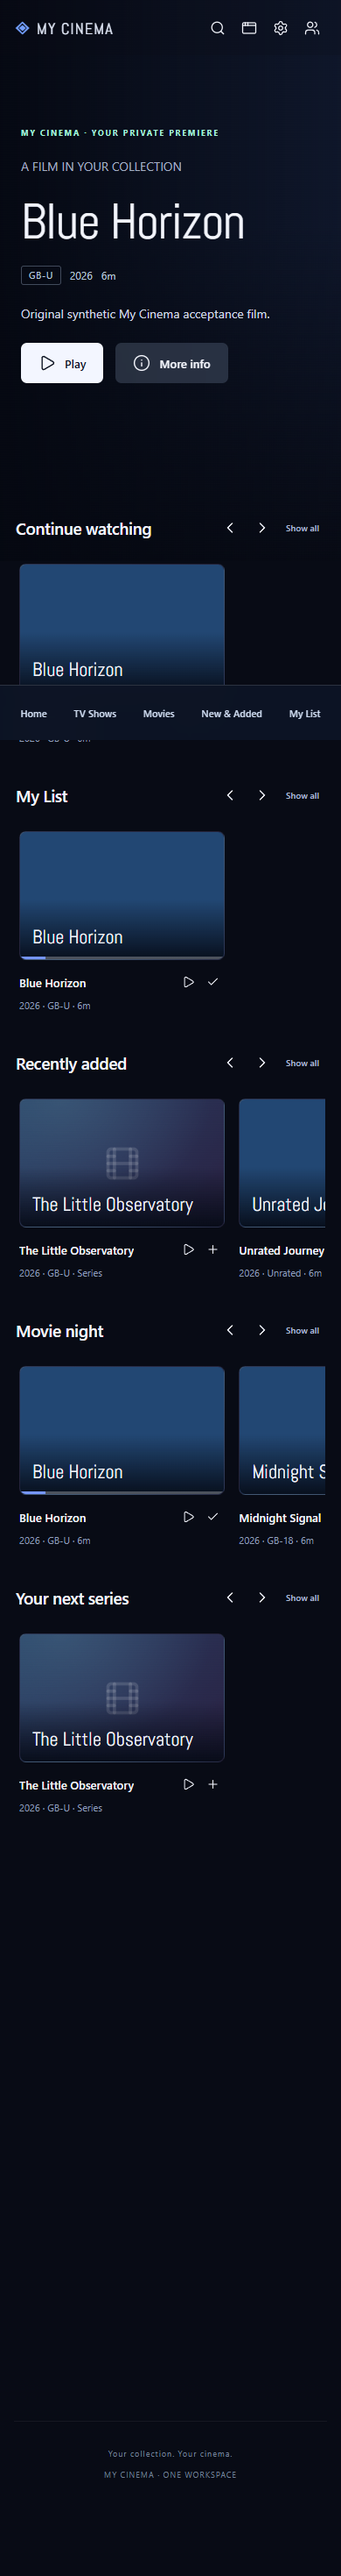
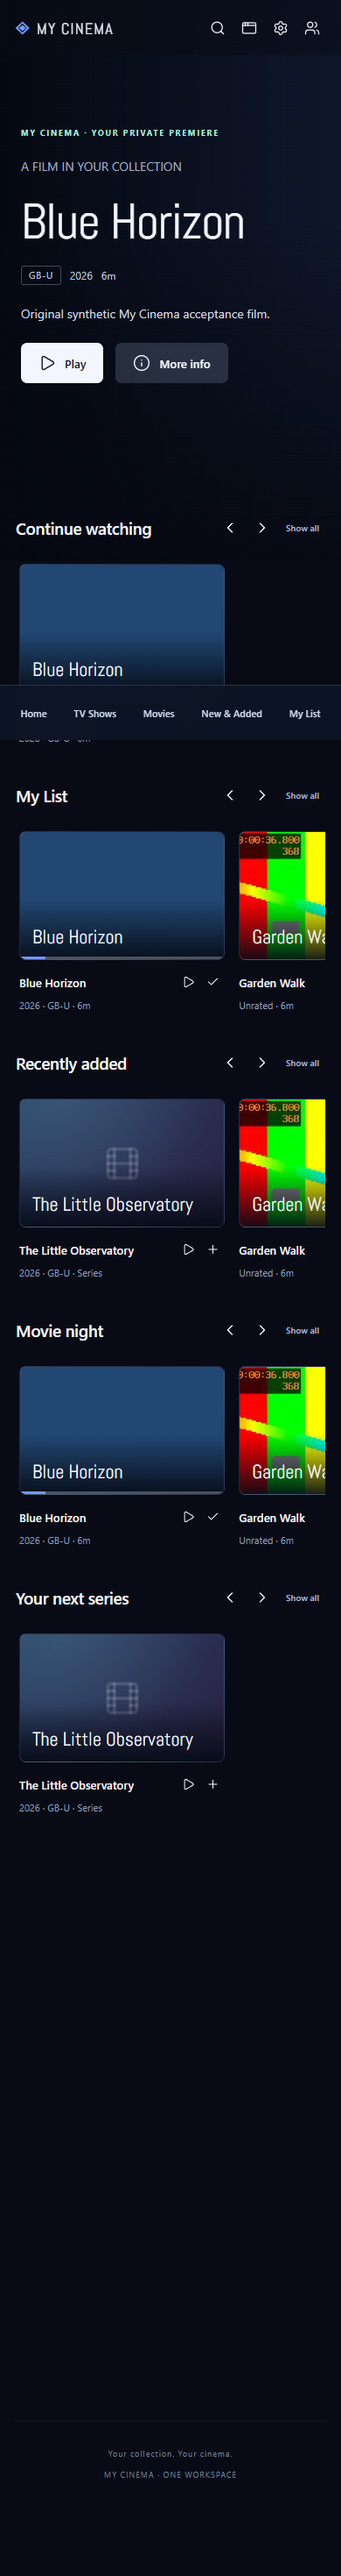
Use stable official media runtime, real readiness and complete video preferences

Changed region(s): [[0.6769, 0.3097, 0.9538, 0.4956], [0.6769, 0.5265, 0.9538, 0.6195]]

diff --git a/web/src/main.tsx b/web/src/main.tsx
@@ -12,6 +12,7 @@ import Settings from './generated/Settings';
 import Watch from './generated/Watch';
 import Login from './generated/Login';
 import './style.css';
+import {preferredTrack} from './media-preferences';
 
 const h=React.createElement;
 type Obj=Record<string,any>;
@@ -57,15 +58,16 @@ function App(){
  async function loadProfiles(){const out=await api('/api/profiles');setProfiles(out.profiles);const p=out.profiles.find((v:Obj)=>v.id===out.active);setProfile(p||null);return out}
  async function loadHome(){const gen=request.current;const out=await api('/api/home');if(gen!==request.current)return;setRows(out.rows.map((r:Obj)=>({...r,items:r.items.map(enrich)})));setHero(out.hero?enrich(out.hero):null);setProfile(out.profile)}
  async function loadCatalog(type:string,start=0){const gen=request.current;const endpoint=type==='list'?'/api/my-list':`/api/catalog?type=${type==='movies'?'movie':type==='series'?'series':type==='new'?'new':''}&start=${start}`;const out=await api(endpoint);if(gen!==request.current)return;setItems(old=>start?[...old,...out.items.map(enrich)]:out.items.map(enrich));setMore(!!out.hasMore);setNextPage(out.next||0)}
- async function openDetails(id:string){const gen=request.current;const out=enrich(await api('/api/items/'+id));if(gen!==request.current)return;setDetail(out);setSimilar([]);api(`/api/items/${id}/similar`).then(v=>{if(gen===request.current)setSimilar(v.items.map(enrich))}).catch(()=>{});setEpisodes([]);setSeasons([]);const src=out.sources?.[0];setFields(f=>({...f,version:src?.id||'',audio:'-1',subtitle:'-1'}));if(out.type==='Series'){const ss=await api(`/api/series/${id}/seasons`);if(gen!==request.current)return;setSeasons(ss.items);if(ss.items.length){setFields(f=>({...f,season:ss.items[0].id}));const es=await api(`/api/series/${id}/episodes?season=${ss.items[0].id}`);if(gen===request.current)setEpisodes(es.items.map(enrich))}}}
+ async function openDetails(id:string){const gen=request.current;const out=enrich(await api('/api/items/'+id));if(gen!==request.current)return;setDetail(out);setSimilar([]);api(`/api/items/${id}/similar`).then(v=>{if(gen===request.current)setSimilar(v.items.map(enrich))}).catch(()=>{});setEpisodes([]);setSeasons([]);const src=out.sources?.[0];setFields(f=>({...f,version:src?.id||'',audio:String(preferredTrack(src,'Audio',profile?.preferences?.audio)),subtitle:String(preferredTrack(src,'Subtitle',profile?.preferences?.subtitles))}));if(out.type==='Series'){const ss=await api(`/api/series/${id}/seasons`);if(gen!==request.current)return;setSeasons(ss.items);if(ss.items.length){setFields(f=>({...f,season:ss.items[0].id}));const es=await api(`/api/series/${id}/episodes?season=${ss.items[0].id}`);if(gen===request.current)setEpisodes(es.items.map(enrich))}}}
  async function begin(id:string,restart=false,override:Obj={}){const gen=request.current;
   let m=enrich(await api('/api/items/'+id));let following:Obj|null=null;
   if(m.type==='Series'){const es=await api(`/api/series/${m.id}/episodes`);const sorted=es.items.filter((v:Obj)=>v.season!==0);const ep=sorted.find((v:Obj)=>v.progress>0&&!v.played)||sorted.find((v:Obj)=>!v.played)||sorted[0]||es.items[0];if(!ep)throw new Error('This series has no playable episodes yet.');m=enrich(await api('/api/items/'+ep.id))}
   if(m.seriesId){const es=await api(`/api/series/${m.seriesId}/episodes`);const index=es.items.findIndex((v:Obj)=>v.id===m.id);following=es.items.slice(index+1).find((v:Obj)=>v.season>0)||null}
   const old=playRef.current;if(old){setPlay(null);await api(`/api/playback/${old.id}/stop`,'POST',{position}).catch(()=>{})}
   const source=(detail?.id===id?fields.version:'')||'';
-  const out=await api('/api/playback/sessions','POST',{id:m.id,source,audio:Number(detail?.id===id?fields.audio:-1),subtitle:Number(detail?.id===id?fields.subtitle:-1),bitrate:Number(fields.quality||20000000),restart,...override});
-  if(gen!==request.current)return;setPlay(out);setPosition(out.start);setNext(following?enrich(following):null);setCountdown(null);setPlayerError('');setFields(f=>({...f,playAudio:String(override.audio??(detail?.id===id?fields.audio:-1)),playSubtitle:String(override.subtitle??(detail?.id===id?fields.subtitle:-1))}));setDetail(null);setView('watch');location.hash='watch'
+  const selectedSource=m.sources?.find((v:Obj)=>v.id===source)||m.sources?.[0];const audio=Number(detail?.id===id?fields.audio:preferredTrack(selectedSource,'Audio',profile?.preferences?.audio)),subtitle=Number(detail?.id===id?fields.subtitle:preferredTrack(selectedSource,'Subtitle',profile?.preferences?.subtitles));
+  const out=await api('/api/playback/sessions','POST',{id:m.id,source,audio,subtitle,bitrate:Number(fields.quality||20000000),restart,...override});
+  if(gen!==request.current)return;setPlay(out);setPosition(out.start);setNext(following?enrich(following):null);setCountdown(null);setPlayerError('');setFields(f=>({...f,playAudio:String(override.audio??audio),playSubtitle:String(override.subtitle??subtitle)}));setDetail(null);setView('watch');location.hash='watch'
  }
  async function loadSettings(){let out:Obj={};if(sessionRef.current?.user.role==='owner'&&profile?.kind==='adult')out=await api('/api/admin/settings');setSettings(out);const prefs=profile?.preferences||{};const first=profiles[0];setFields(f=>({...f,preferredAudio:prefs.audio||'',preferredSubtitle:prefs.subtitles||'off',autoplay:!!prefs.autoplay,recentSearches:!!prefs.recentSearches,tv:!!prefs.tv,editProfile:first?.id||'',editName:first?.name||'',editRating:String(first?.rating??18)}))}
  useEffect(()=>{(async()=>{try{const b=await api('/api/bootstrap');base.current=b.base||'';setBoot(b);try{const s=await api('/api/me');setSession(s);sessionRef.current=s;const ps=await loadProfiles();setView(ps.active?'browse':'profiles')}catch{setView('login')}}catch(e){setError((e as Error).message)}finally{setLoading(false)}})()},[]);

diff --git a/web/src/media-preferences.ts b/web/src/media-preferences.ts
@@ -1,0 +1,8 @@
+type Source = {tracks?:{type:string;language?:string;index:number}[]};
+const aliases:Record<string,string>={eng:'en',fra:'fr',fre:'fr',deu:'de',ger:'de',spa:'es',ita:'it',por:'pt',jpn:'ja',kor:'ko',zho:'zh',chi:'zh',ara:'ar',hin:'hi',ben:'bn',rus:'ru',nld:'nl',dut:'nl'};
+function languageCode(raw:string){const code=raw.trim().toLowerCase().split(/[-_]/)[0];return aliases[code]||code}
+export function preferredTrack(source:Source|undefined,type:string,language:string|undefined){
+ if(!language||language.toLowerCase()==='off')return -1;
+ const code=languageCode(language);
+ return source?.tracks?.find(t=>t.type===type&&languageCode(t.language||'')===code)?.index??-1;
+}

diff --git a/internal/app/catalog.go b/internal/app/catalog.go
@@ -123,7 +123,7 @@ func (a *App) catalog(w http.ResponseWriter, r *http.Request) {
 	if !ok {
 		return
 	}
-	q := url.Values{"Recursive": {"true"}, "IncludeItemTypes": {"Movie,Series"}, "SortBy": {"SortName"}, "SortOrder": {"Ascending"}}
+	q := url.Values{"Recursive": {"true"}, "IncludeItemTypes": {"Movie,Series,Video"}, "SortBy": {"SortName"}, "SortOrder": {"Ascending"}}
 	switch r.URL.Query().Get("type") {
 	case "movie":
 		q.Set("IncludeItemTypes", "Movie")
@@ -176,9 +176,9 @@ func (a *App) home(w http.ResponseWriter, r *http.Request) {
 		id, name string
 		q        url.Values
 	}{
-		{"list", "My List", url.Values{"Recursive": {"true"}, "IncludeItemTypes": {"Movie,Series"}, "Filters": {"IsFavorite"}, "SortBy": {"SortName"}}},
-		{"recent", "Recently added", url.Values{"Recursive": {"true"}, "IncludeItemTypes": {"Movie,Series"}, "SortBy": {"DateCreated"}, "SortOrder": {"Descending"}}},
-		{"movies", "Movie night", url.Values{"Recursive": {"true"}, "IncludeItemTypes": {"Movie"}, "SortBy": {"SortName"}}},
+		{"list", "My List", url.Values{"Recursive": {"true"}, "IncludeItemTypes": {"Movie,Series,Video"}, "Filters": {"IsFavorite"}, "SortBy": {"SortName"}}},
+		{"recent", "Recently added", url.Values{"Recursive": {"true"}, "IncludeItemTypes": {"Movie,Series,Video"}, "SortBy": {"DateCreated"}, "SortOrder": {"Descending"}}},
+		{"movies", "Movie night", url.Values{"Recursive": {"true"}, "IncludeItemTypes": {"Movie,Video"}, "SortBy": {"SortName"}}},
 		{"series", "Your next series", url.Values{"Recursive": {"true"}, "IncludeItemTypes": {"Series"}, "SortBy": {"SortName"}}},
 	}
 	for _, q := range queries {
@@ -192,7 +192,7 @@ func (a *App) home(w http.ResponseWriter, r *http.Request) {
 	}
 	if len(resume.Items) > 0 && visible(p, resume.Items[0]) && len(resume.Items[0].Genres) > 0 {
 		seed := resume.Items[0]
-		out, e := a.engine.Items(r.Context(), c, url.Values{"Recursive": {"true"}, "IncludeItemTypes": {"Movie,Series"}, "Genres": {seed.Genres[0]}, "Limit": {"20"}})
+		out, e := a.engine.Items(r.Context(), c, url.Values{"Recursive": {"true"}, "IncludeItemTypes": {"Movie,Series,Video"}, "Genres": {seed.Genres[0]}, "Limit": {"20"}})
 		if e == nil {
 			filtered := out.Items[:0]
 			for _, i := range out.Items {
@@ -232,7 +232,7 @@ func (a *App) search(w http.ResponseWriter, r *http.Request) {
 		apphost.JSON(w, 200, map[string]any{"items": []Media{}})
 		return
 	}
-	out, e := a.engine.Items(r.Context(), c, url.Values{"Recursive": {"true"}, "IncludeItemTypes": {"Movie,Series,Episode"}, "SearchTerm": {q}, "Limit": {"80"}})
+	out, e := a.engine.Items(r.Context(), c, url.Values{"Recursive": {"true"}, "IncludeItemTypes": {"Movie,Series,Episode,Video"}, "SearchTerm": {q}, "Limit": {"80"}})
 	if e != nil {
 		a.fail(w, e)
 		return
@@ -244,7 +244,7 @@ func (a *App) myList(w http.ResponseWriter, r *http.Request) {
 	if !ok {
 		return
 	}
-	out, e := a.engine.Items(r.Context(), c, url.Values{"Recursive": {"true"}, "IncludeItemTypes": {"Movie,Series"}, "Filters": {"IsFavorite"}, "SortBy": {"SortName"}, "Limit": {"500"}})
+	out, e := a.engine.Items(r.Context(), c, url.Values{"Recursive": {"true"}, "IncludeItemTypes": {"Movie,Series,Video"}, "Filters": {"IsFavorite"}, "SortBy": {"SortName"}, "Limit": {"500"}})
 	if e != nil {
 		a.fail(w, e)
 		return

diff --git a/scripts/assemble-runtime.py b/scripts/assemble-runtime.py
@@ -1,0 +1,36 @@
+"""Assemble unmodified official Jellyfin and compatible FFmpeg portable binaries.
+
+For the exact published ZIP use the runtime asset on the My Cinema release.
+This script records vendor assembly; deflate bytes can vary by zlib version.
+"""
+import argparse, hashlib, json, zipfile
+from pathlib import Path
+
[2 lines of base64/hex data omitted]
+def digest(path):
+ h=hashlib.sha256()
+ with Path(path).open('rb') as f:
+  for block in iter(lambda:f.read(1048576),b''):h.update(block)
+ return h.hexdigest()
+def assemble(server,encoder,output):
+ assert digest(server)==SERVER_SHA,'Jellyfin vendor checksum mismatch'
+ assert digest(encoder)==FFMPEG_SHA,'FFmpeg vendor checksum mismatch'
+ output=Path(output)
+ if output.exists():raise ValueError('Use a new output file')
+ with zipfile.ZipFile(server) as base,zipfile.ZipFile(encoder) as ff,zipfile.ZipFile(output,'w',zipfile.ZIP_DEFLATED,compresslevel=5) as result:
+  replacements={}
+  for name in ['ffmpeg.exe','ffprobe.exe']:
+   members=[s for s in ff.namelist() if Path(s).name==name]
+   assert len(members)==1
+   replacements['jellyfin/'+name]=ff.read(members[0])
+  manifest={'schema':1,'jellyfin':'12.3','serverArchiveSHA256':SERVER_SHA,'ffmpeg':'8.1.2-1','encoderArchiveSHA256':FFMPEG_SHA,'vendorBinariesModified':False,'replacements':{k:hashlib.sha256(v).hexdigest() for k,v in replacements.items()}}
+  for old in base.infolist():
+   assert old.filename.startswith('jellyfin/') and '..' not in old.filename.split('/')
+   entry=zipfile.ZipInfo(old.filename,(2026,10,24,0,0,0));entry.compress_type=zipfile.ZIP_DEFLATED;entry.external_attr=old.external_attr
+   result.writestr(entry,replacements.get(old.filename,base.read(old.filename)))
+  entry=zipfile.ZipInfo('jellyfin/MYCINEMA-ASSEMBLY.json',(2026,10,24,0,0,0));entry.compress_type=zipfile.ZIP_DEFLATED
+  result.writestr(entry,json.dumps(manifest,indent=2))
+ print(json.dumps({'runtimeSHA256':digest(output),**manifest},indent=2))
+if __name__=='__main__':
+ parser=argparse.ArgumentParser();parser.add_argument('--server-zip',required=True);parser.add_argument('--ffmpeg-zip',required=True);parser.add_argument('--output',required=True);args=parser.parse_args();assemble(args.server_zip,args.ffmpeg_zip,args.output)

diff --git a/internal/app/engine.go b/internal/app/engine.go
@@ -23,16 +23,9 @@ func (a *App) engineStatus(ready bool, msg string) {
 	a.mu.Unlock()
 }
 
-// Preserve only the existing Windows app-health context. Dropping this marker
-// from a parent that has it causes the pinned native encoder to fail at process
-// initialization on the reference host. Never invent a compatibility layer or
-// forward arbitrary layer options/account/provider environment variables.
+// Media children receive no account, provider or compatibility-layer options.
 func mediaEnvironment() []string {
-	env := []string{"DOTNET_CLI_TELEMETRY_OPTOUT=1", "LANG=C.UTF-8", "LC_ALL=C.UTF-8"}
-	if os.Getenv("__COMPAT_LAYER") == "DetectorsAppHealth" {
-		env = append(env, "__COMPAT_LAYER=DetectorsAppHealth")
-	}
-	return env
+	return []string{"DOTNET_CLI_TELEMETRY_OPTOUT=1", "LANG=C.UTF-8", "LC_ALL=C.UTF-8"}
 }
 
 var errEngineExit = errors.New("private media engine exited")
@@ -104,7 +97,7 @@ func (a *App) engineCycle(ctx context.Context) error {
 		return e
 	}
 	var encoderVersion bytes.Buffer
-	if e = apphost.Service(ctx, filepath.Join(runtime, "ffmpeg.exe"), root, []string{"-version"}, mediaEnvironment(), &encoderVersion); e != nil || !strings.HasPrefix(encoderVersion.String(), "ffmpeg version 8.1.3-Jellyfin") {
+	if e = apphost.Service(ctx, filepath.Join(runtime, "ffmpeg.exe"), root, []string{"-version"}, mediaEnvironment(), &encoderVersion); e != nil || !strings.HasPrefix(encoderVersion.String(), "ffmpeg version 8.1.2-Jellyfin") {
 		a.engineStatus(false, "The bundled video encoder could not start. Check the local diagnostic log and restart My Cinema.")
 		a.H.Log.Error("bundled encoder validation failed", "error", fmt.Sprint(e), "output", encoderVersion.String())
 		<-ctx.Done()

diff --git a/internal/app/runtime.go b/internal/app/runtime.go
@@ -12,7 +12,7 @@ import (
 	"strings"
 )
 
[2 lines of base64/hex data omitted]
 
 // Extract only the pinned vendor archive, into private app-relative state.
 // The publisher appends the exact vendor ZIP and a fixed-size footer to the PE.
@@ -56,7 +56,7 @@ func prepareRuntime(data, archive string) (string, error) {
 	if e != nil || hex.EncodeToString(sum.Sum(nil)) != RuntimeSHA256 {
 		return "", errors.New("the media runtime archive failed its release checksum")
 	}
-	root := filepath.Join(data, "runtime", "jellyfin")
+	root := filepath.Join(data, "runtime", "jellyfin-"+RuntimeSHA256[:12])
 	marker := filepath.Join(root, ".mycinema-runtime")
 	if b, e := os.ReadFile(marker); e == nil && string(b) == RuntimeSHA256 {
 		for _, name := range []string{"jellyfin.exe", "ffmpeg.exe", "ffprobe.exe"} {

diff --git a/internal/app/app.go b/internal/app/app.go
@@ -86,6 +86,16 @@ func New(h *apphost.Host) (*App, error) {
 	for _, r := range routes {
 		h.Mux.HandleFunc(r.path, h.Require(r.fn))
 	}
+	h.Mux.HandleFunc("GET /cinema-health", func(w http.ResponseWriter, r *http.Request) {
+		a.mu.Lock()
+		ready := a.ready
+		a.mu.Unlock()
+		code := http.StatusOK
+		if !ready {
+			code = http.StatusServiceUnavailable
+		}
+		apphost.JSON(w, code, map[string]any{"ready": ready, "version": h.Config.Version})
+	})
 	return a, nil
 }
 func (a *App) saveSecretsLocked() error {

diff --git a/internal/app/security_test.go b/internal/app/security_test.go
@@ -15,7 +15,7 @@ func TestMediaEnvironmentDoesNotAdoptCredentialsOrInventLayers(t *testing.T) {
 		if strings.Contains(env, "not-for-media") || strings.Contains(env, "RunAsInvoker") {
 			t.Fatal("unexpected media environment")
 		}
-		if strings.Contains(env, "__COMPAT_LAYER=") != (layer == "DetectorsAppHealth") {
+		if strings.Contains(env, "__COMPAT_LAYER=") {
 			t.Fatal("app health inheritance changed")
 		}
 	}

diff --git a/cmd/mycinema/main.go b/cmd/mycinema/main.go
@@ -17,7 +17,7 @@ import (
 	"syscall"
 )
 
-var version = "0.1.0-preview.1"
+var version = "0.1.0-preview.2"
 
 func run() error {
 	f := flag.NewFlagSet("cinema", flag.ContinueOnError)

diff --git a/agents/history/2026-10-24-my-cinema-compacted.md b/agents/history/2026-10-24-my-cinema-compacted.md
@@ -131,3 +131,53 @@ browser PIN, and a different real subject denied household access/self-grant.
 No page errors. Synthetic runtime and children stopped. Acceptance reports are
 included with the release. Source publication, promotion and owner delivery
 follow this source commit; consult later delivery receipts/history for outcome.
+
+## Corrected final candidate (supersedes prior feasibility conclusions)
+
+App1 was published/promoted, but final review found omitted Home video items and
+stored language defaults not applied at play. The normal primary install of the
+unpublished Workspace84 candidate preserved all old apps/bytes/identity/recovery,
+but its media encoder preflight failed0xc0000409. Generic apphost health still
+answered200, so it was not media readiness proof. Do not report that installation
+as final success. Its sanitized receipt is preliminary-main84-delivery.json in
+task tooling. The84 public release draft was deleted before publication; its
+source tag is preserved. Final integration is85 from public83, app2.
+
+The earlier app-health-marker workaround was not sufficient and is removed.
+Official Jellyfin FFmpeg8.1.2-1 passed80 native Service launches with and80 without
+the inherited marker, with zero failures. Pins: official encoder ZIP
[1 lines of base64/hex data omitted]
+source172f1454c4bc4dd9a3754e9db024708ef7a83f0c, archive SHA256
+948a49055f3dcc8d752be441bc4a0702eaefb7e5508699ffc27013f7a33da035.
+Unmodified server12.3 files plus unmodified official8.1.2 binaries are assembled
+by scripts/assemble-runtime.py. Exact runtime ZIP SHA256
+5de2eb4e17fe77132c3f681fcc80cd63846f9ce78d8e7b75d7f9ed7e292b16b3.
+Versioned private runtime directories preserve the old pin on upgrades. Updated
+source/provenance/licenses distinguish the assembled archive from vendor binaries.
+
+App2 candidate EXE SHA256
[1 lines of base64/hex data omitted]
+passed12 fresh NTFS native checks, including real Home video scan/search/home/list/
+ranges and saved ISO audio/subtitle selection with actual converted captions.
+First preference assertions sampled the select before its update; final harness
+waits for the save acknowledgment and polls selection, and real playback passed.
+All previous HLS/browser/child/PIN/session/layout checks still pass. No marker is
+forwarded to media children. New public /cinema-health returns503 until the media
+engine is ready; suite85 uses that actual readiness contract. Candidate full85
+includes the same exact EXE; final managed acceptance is running.
+
+Next: finish managed85, update its report, commit/tag/publish app2 and suite85,
+promote raw channel (withhold app1 without altering its immutable assets), then
+normal backed-up upgrade of main84/Cinema1 and remote to85/Cinema2. Current helper
+must allow an existing Cinema1 and exclude Cinema-owned changes from preservation
+comparisons; still preserve every other app/package/client/owner/path/recovery.
+Verify actual /cinema-health and private engine on both PCs before completion.
+Both source pushes/releases85/2 and final installs remain pending here. Keep
+newest owner rollback. Remove only known stopped synthetic scratch after saving
+evidence. C temp roots must be NTFS; large builds remain on I. No subagents/Actions.
+
+Final85 installer subsequently passed all7 managed checks using the exact app2
+378e candidate and actual media readiness. Test runtime/children stopped. App and
+suite source tests/vet pass; final scan/package/publication/promotion and real85/2
+installs are the remaining delivery steps. No further production code changes are
+planned unless a real install exposes a failure.

diff --git a/docs/DEVELOPMENT.md b/docs/DEVELOPMENT.md
@@ -10,7 +10,7 @@ npm run build
 cd ..
 go test ./...
 go vet ./...
-pwsh -File scripts/build.ps1 -RuntimeZip /path/to/jellyfin_12.3-amd64.zip
+pwsh -File scripts/build.ps1 -RuntimeZip /path/to/mycinema-runtime-12.3-8.1.2.zip
 ```
 
 `scripts/build.ps1` builds the frontend/launcher and appends the verified pinned
@@ -46,3 +46,5 @@ session. Stream IDs and resource IDs are opaque, bounded and profile/session-bou
 Media authority is rechecked before each manifest, segment, artwork and detail.
 
 See ADR-001-architecture.md and SECURITY-CHECKS.md for the engine and trust model.
+
+Use the pinned runtime assembly asset from the same My Cinema release. The optional Python assemble-runtime.py records how unmodified official server and encoder archives are combined; ZIP deflate bytes can vary with zlib. The published runtime checksum remains mandatory.

diff --git a/docs/SECURITY-CHECKS.md b/docs/SECURITY-CHECKS.md
@@ -1,7 +1,7 @@
 # Security and compatibility
 
 Pinned compatibility: Windows amd64; Jellyfin Server 12.3 (API 12.3.0);
-jellyfin-ffmpeg 8.1.3-1 / FFmpeg 8.1.3-Jellyfin. Portable archive checksum is in
+jellyfin-ffmpeg 8.1.2-1 / FFmpeg 8.1.2-Jellyfin. Portable archive checksum is in
 THIRD-PARTY-LICENSES.txt and enforced before extraction. Fresh setup requires the
 legacy first-user GET before updating the startup user. User policy updates merge
 the server's required authentication/password-reset provider identifiers.
